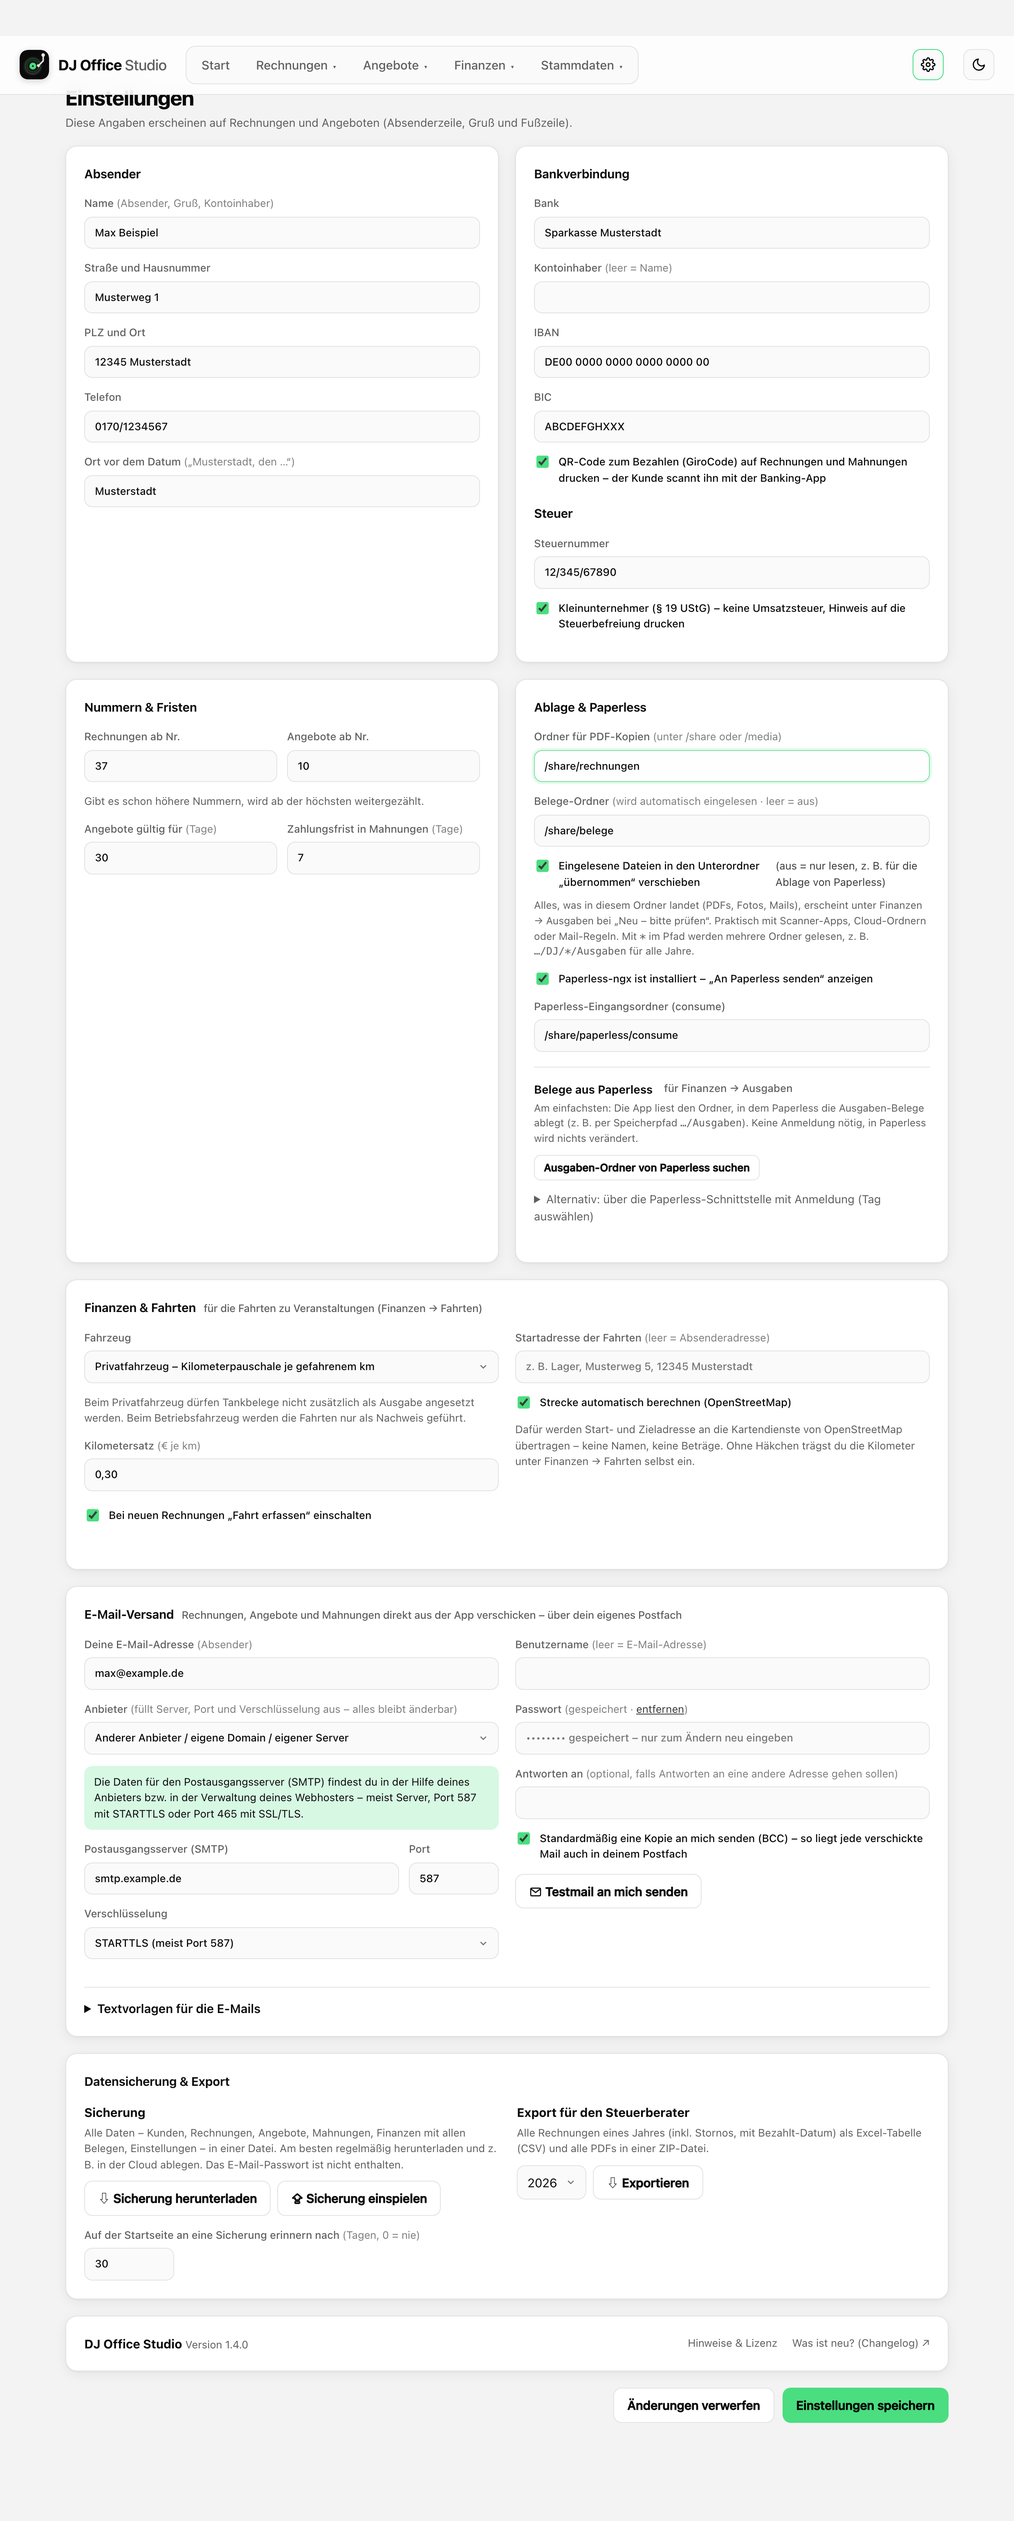
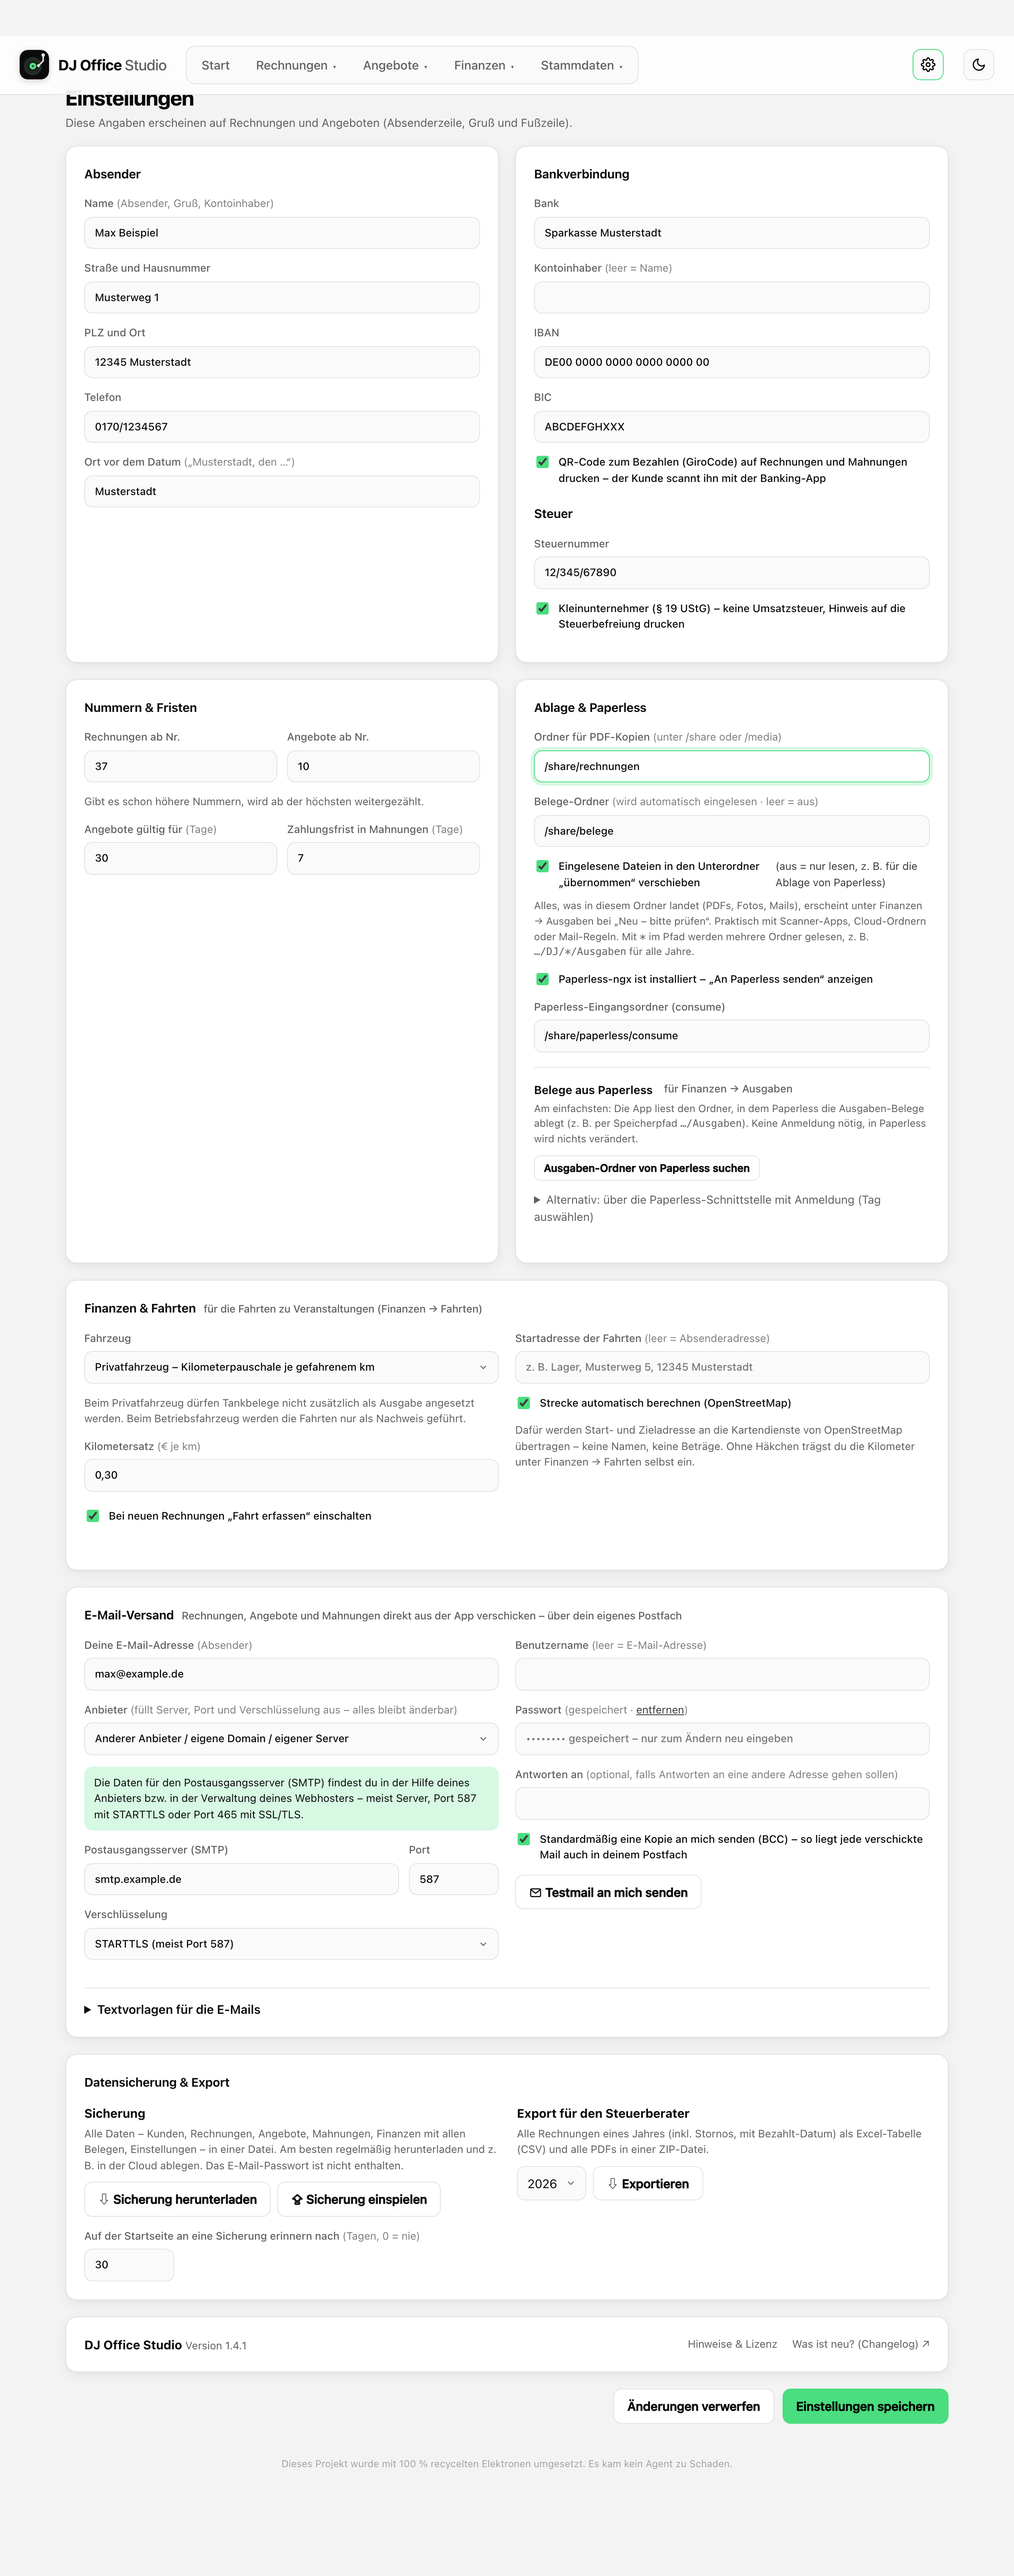
Version 1.4.1: kleines Extra ganz unten in den Einstellungen

diff --git a/rechnungen/app/static/style.css b/rechnungen/app/static/style.css
@@ -691,3 +691,6 @@ label .datum-feld > input.datum { margin-top: 0; }
 .ku-meter small { display: block; margin-top: 6px; color: var(--muted); font-size: 13px; }
 #ku-hinweise:empty { display: none; }
 #ku-hinweise { margin: 0 0 10px; }
+/* kleines Extra ganz unten in den Einstellungen */
+.easter-egg { margin: 40px 0 8px; text-align: center; font-size: 12px; color: var(--muted); opacity: .55; transition: opacity .3s; }
+.easter-egg:hover { opacity: 1; }

diff --git a/rechnungen/app/static/index.html b/rechnungen/app/static/index.html
@@ -542,6 +542,7 @@
           <button type="submit">Einstellungen speichern</button>
         </div>
       </form>
+      <p class="easter-egg">Dieses Projekt wurde mit 100&nbsp;% recycelten Elektronen umgesetzt. Es kam kein Agent zu Schaden.</p>
     </section>
 
     <!-- ================= Stammdaten (generisch) ================= -->

diff --git a/rechnungen/CHANGELOG.md b/rechnungen/CHANGELOG.md
@@ -2,6 +2,11 @@
 
 Alle Änderungen an DJ Office Studio. Neueste Version oben.
 
+## 1.4.1 – 2026-11-21
+
+### Neu
+- Ein kleines Extra ganz unten in den Einstellungen.
+
 ## 1.4.0 – 2026-11-21
 
 ### Neu
